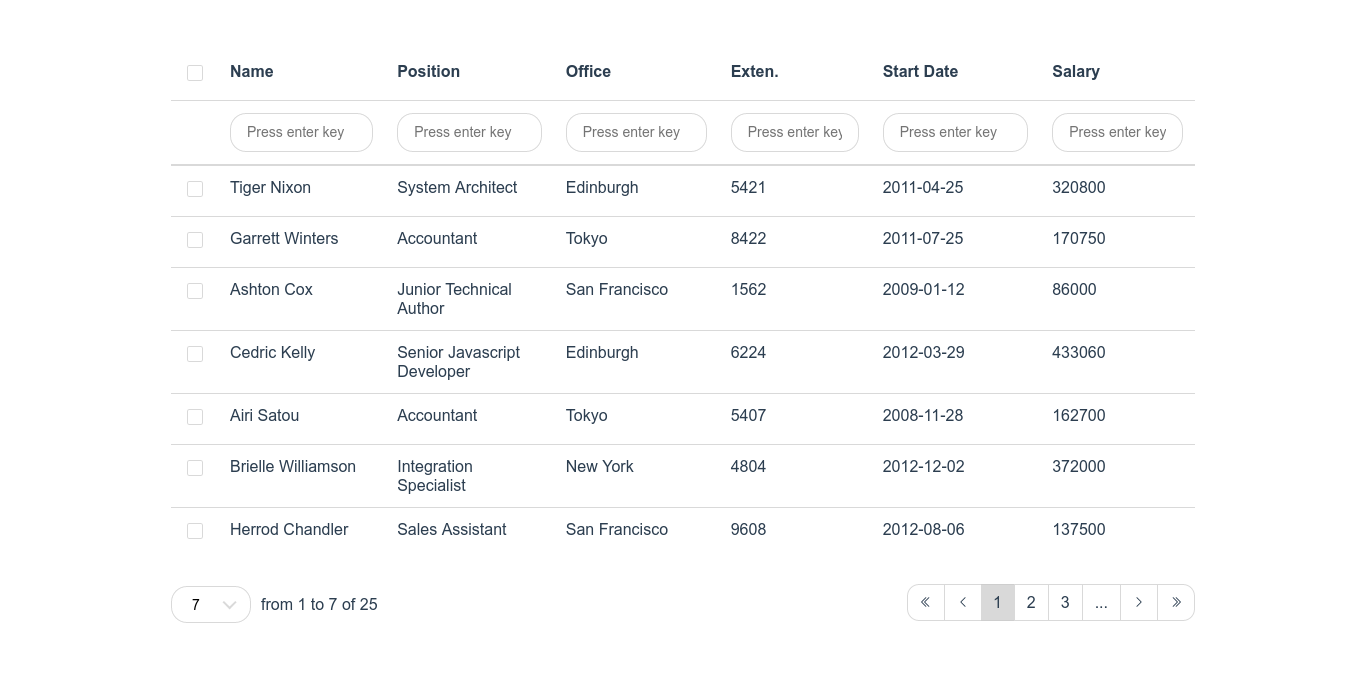
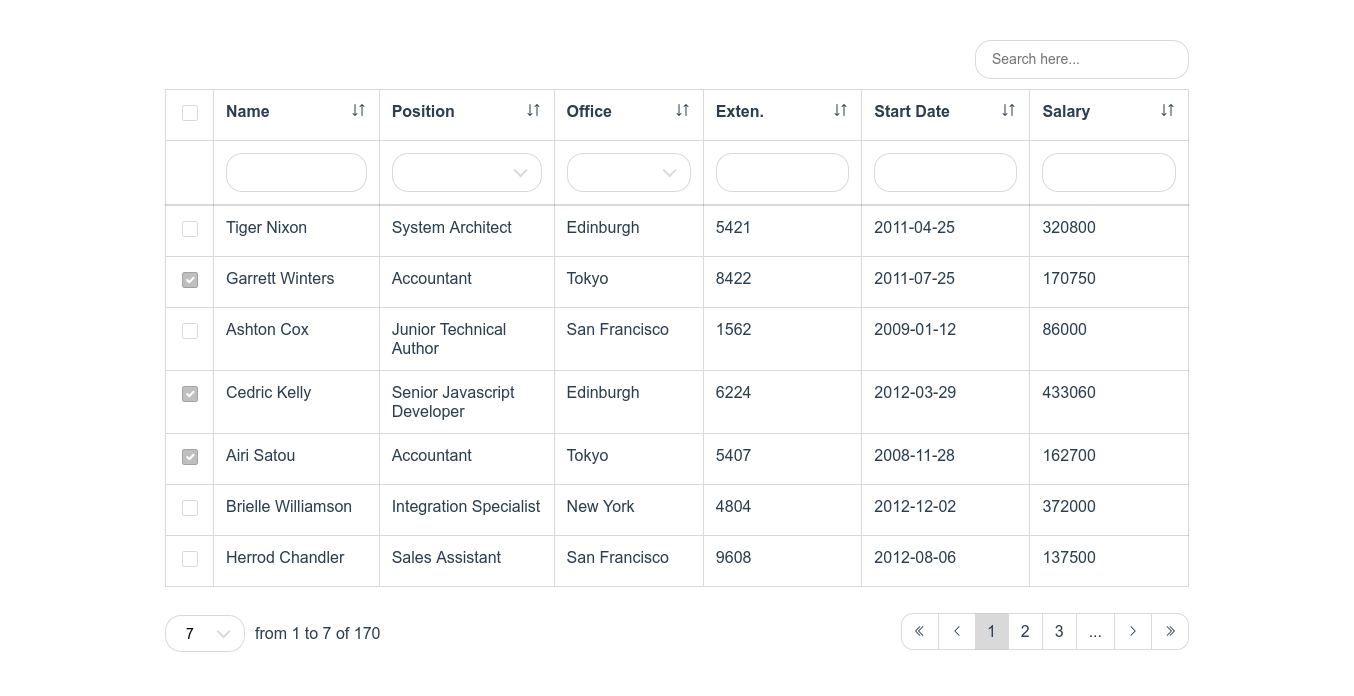
finishing the first version of datatable

diff --git a/src/vue/components/TableBox.vue b/src/vue/components/TableBox.vue
@@ -23,17 +23,41 @@ const sort = reactive<{col: string, by: string}>({
 //@ts-ignore
 const { getColumnProperties, getColumnData } = useTable(toRef(props, 'columns'), toRef(props, 'rows'))
 
-const checkedList = ref([])
-const filterMap = ref({})
+const checkedList = ref<any[]>([])
+const checkedAll = ref<any>(null)
+const checkedRefs = ref<any[]>([])
+const setCheckedRef = (el: any) => {
+  if (el) {
+    checkedRefs.value.push(el)
+  }
+}
+
+const filterMap = ref<any>({})
+for(const column of props.columns) {
+  if('prop' in column) {
+    filterMap.value[column.prop] = ''
+  }
+}
+
+const flatByProp = (prop: string) => {
+  //@ts-ignore
+  return props.entries.map((mi: any) => mi[prop])
+}
+
+const removeChecked = (item: string | number | any) => {
+  //@ts-ignore
+  const getIndex = checkedList.value.findIndex((fi: string | number | any) => fi === item)
+  checkedList.value.splice(getIndex, 1)
+}
 </script>
 
 <template>
-  <table class="table">
+  <table class="table tableBorder">
     <thead>
       <tr>
         <th v-for="(col, ind) in columns" :key="'col-'+ind">
           <template v-if="col.type === 'checkbox'">
-            <input type="checkbox" class="tableCheckInput">
+            <input type="checkbox" ref="checkedAll" class="tableCheckInput" @click="checkedList = (checkedAll.checked === true) ? flatByProp(col.prop) : []">
           </template>
           <template v-else>
             <div class="tableSort">
@@ -66,15 +90,15 @@ const filterMap = ref({})
       <template v-if="filter">
         <tr>
           <th v-for="(col, ind) in columns" :key="'filter-'+ind">
-            <div v-if="col.filter === true">
+            <div v-if="col.filter === true && 'prop' in col">
               <div class="tableSelect" v-if="col.filterType === 'select'">
-                <select class="tableSelectBox" :ref="'filter-'+col.prop" @change="filterMap[col.prop] = $refs['filter-'+col.prop].value; emit('filter', filterMap)">
+                <select class="tableSelectBox" v-model="filterMap[col.prop]" @change="emit('filter', filterMap)">
                   <option value="" selected></option>
                   <option v-for="(tkCol, tkInd) in getColumnData(col.prop)" :key="tkInd" :value="tkCol">{{ tkCol }}</option>
                 </select>
               </div>
               <template v-else>
-                <input type="text" :ref="'filter-'+col.prop" class="tableInput" @input="filterMap[col.prop] = $refs['filter-'+col.prop].value; emit('filter', filterMap)" :placeholder="'Filter '+col.prop">
+                <input type="text" v-model="filterMap[col.prop]" class="tableInput" @input="emit('filter', filterMap)">
               </template>
             </div>
           </th>
@@ -88,7 +112,7 @@ const filterMap = ref({})
             <component :is="col.component" v-model="col.value" :options="col.options"></component>
           </template>
           <template v-else-if="col.type === 'checkbox'">
-            <input type="checkbox" class="tableCheckInput" :value="entry[col.prop]" @click="checkedList.push(entry); emit('checklist', checkedList)">
+            <input type="checkbox" class="tableCheckInput" :ref="setCheckedRef" :value="entry[col.prop]" :checked="checkedList.includes(entry[col.prop])" @click="(checkedRefs[ind].checked === true) ? checkedList.push(entry[col.prop]) : removeChecked(entry[col.prop]); emit('checklist', checkedList)">
           </template>
           <template v-else>{{ entry[col.prop] }}</template>
         </td>
@@ -136,13 +160,13 @@ const filterMap = ref({})
 }
     
 .tableBorder {
-  border-top: 1px solid rgba(0, 0, 0, 0.25);
-  border-right: 1px solid rgba(0, 0, 0, 0.25);
-  border-bottom: 1px solid rgba(0, 0, 0, 0.25);
+  border-top: 1px solid rgba(0, 0, 0, 0.15);
+  border-right: 1px solid rgba(0, 0, 0, 0.15);
+  border-bottom: 1px solid rgba(0, 0, 0, 0.15);
 }
     
 .tableBorder th, .tableBorder td {
-  border-left: 1px solid rgba(0, 0, 0, 0.25);
+  border-left: 1px solid rgba(0, 0, 0, 0.15);
 }
     
 .tableResponsive {

diff --git a/src/vue/references/debouncedRef.ts b/src/vue/references/debouncedRef.ts
@@ -1,0 +1,20 @@
+import { customRef } from 'vue'
+
+export default function debouncedRef(value: string, delay: number = 200) {
+  let timeout: any = null
+  return customRef<string>((track, trigger) => {
+    return {
+      get() {
+        track()
+        return value
+      },
+      set(newValue: string) {
+        clearTimeout(timeout)
+        timeout = setTimeout(() => {
+          value = newValue
+          trigger()
+        }, delay)
+      }
+    }
+  })
+}
